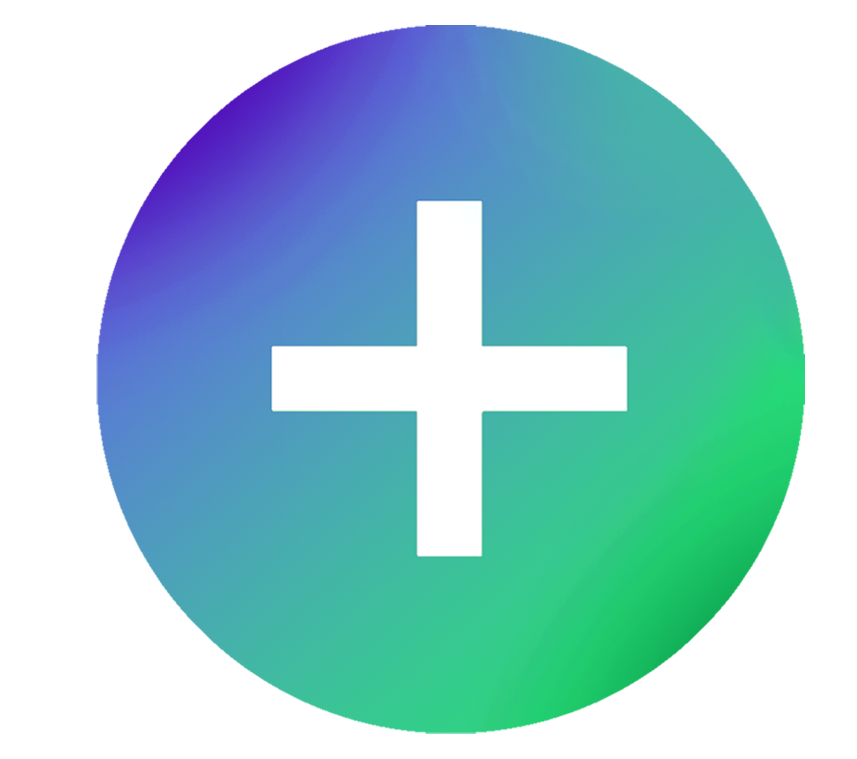
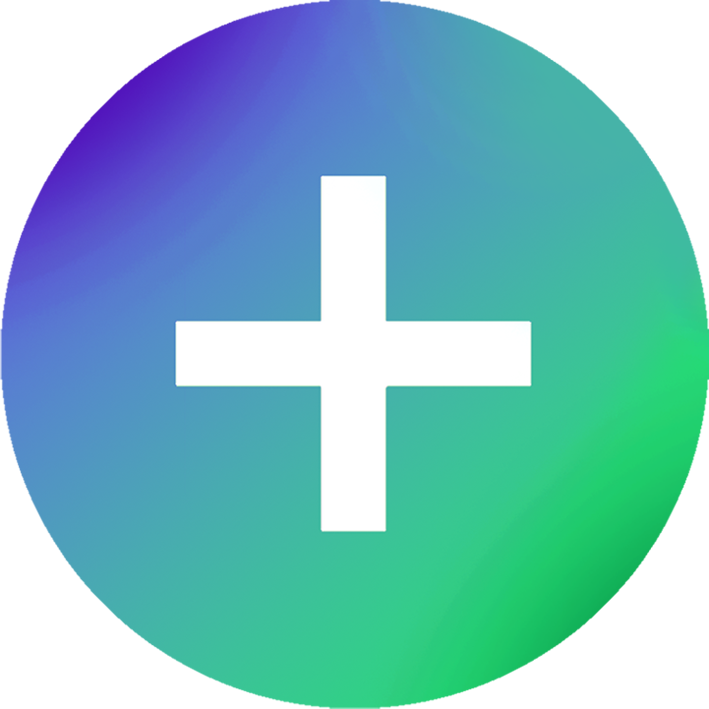
some major design edits

Changed region(s): [[0.0, 0.0, 1.0, 1.0], [0.2482, 0.2482, 0.7757, 0.7757]]

diff --git a/components/Categories.js b/components/Categories.js
@@ -8,28 +8,28 @@ import React from 'react'
 
 const Items = () => {
   return (
-    <ScrollView contentContainerStyle = {{paddingHorizontal: 26, 
-    paddingTop: 10, paddingBottom: 5, alignItems :'center'
+    <ScrollView contentContainerStyle = {{paddingHorizontal: 10, 
+    paddingTop: 10, paddingBottom: 15, alignItems :'center', backgroundColor:"black"
     }} horizontal showsHorizontalScrollIndicator={false}>
     
     
     <TouchableOpacity className = "relative mr-3"> 
-        <Image source={require("../assets/a1.png")}
+        <Image source={require("../assets/apurple.png")}
         className ="h-20 w-20 rounded-2xl "/>
     </TouchableOpacity>
     
     <TouchableOpacity className = "relative mr-3"> 
-        <Image source={require("../assets/a2.png")}
+        <Image source={require("../assets/1d.png")}
         className ="h-20 w-20 rounded-2xl "/>
     </TouchableOpacity> 
 
     <TouchableOpacity className = "relative mr-3"> 
-        <Image source={require("../assets/a3.png")}
+        <Image source={require("../assets/1d.png")}
         className ="h-20 w-20 rounded-2xl "/>
     </TouchableOpacity>    
 
     <TouchableOpacity className = "relative mr-3"> 
-        <Image source={require("../assets/a4.png")}
+        <Image source={require("../assets/1d.png")}
         className ="h-20 w-20 rounded-2xl "/>
     </TouchableOpacity>    
 
@@ -39,12 +39,12 @@ const Items = () => {
     </TouchableOpacity>  
 
     <TouchableOpacity className = "relative mr-3"> 
-        <Image source={require("../assets/a6.png")}
+        <Image source={require("../assets/1d.png")}
         className ="h-20 w-20 rounded-2xl "/>
     </TouchableOpacity>
     
     <TouchableOpacity className = "relative mr-3"> 
-        <Image source={require("../assets/a7.png")}
+        <Image source={require("../assets/1d.png")}
         className ="h-20 w-20 rounded-xl "/>
     </TouchableOpacity> 
 

diff --git a/components/Heder.js b/components/Heder.js
@@ -20,9 +20,9 @@ const Header = () => {
   const navigation = useNavigation();
   return (
     <View className = "flex-row pb-3 items-center mx-4 space-x-5">
-        <TouchableOpacity style={{alignItems:"center", backgroundColor:"#FFFFFF", borderColor:"#1d1d1d", borderWidth:1, height: heightPercentageToDP(5), paddingLeft:10, borderRadius:20, marginTop:10}} className="flex-row flex-1 space-x-2">
-              <Searchout size = {32} color = "black"/>
-              <Text style={{color:"black"}}> Search Items </Text>
+        <TouchableOpacity style={{alignItems:"center", backgroundColor:"#1d1d1d", borderColor:"#1d1d1d", borderWidth:1, height: heightPercentageToDP(5), paddingLeft:10, borderRadius:20, marginTop:10}} className="flex-row flex-1 space-x-2">
+              <Searchout size = {32} color = "white"/>
+              <Text style={{color:"white"}}> Search Items </Text>
         </TouchableOpacity>
         
               

diff --git a/components/feed/Feed.js b/components/feed/Feed.js
@@ -51,7 +51,7 @@ const navigation = useNavigation();
   }
 
   return (
-    <View style={{backgroundColor:"white"}}>
+    <View style={{backgroundColor:"black"}}>
       <View className = "bg-black opacity-0">
     {/* <Cartout size = {(0.06)*(Dimensions.get('window').height)} color = "#fffff" opacity={100}></Cartout> */}
     </View>
@@ -77,7 +77,7 @@ const navigation = useNavigation();
 }
 const styles_specific = StyleSheet.create({
     container: {
-      flex:1/2, height:(((wp(100)/2)-14)*16/9), backgroundColor:"black", marginTop: 10, marginLeft: 7, marginRight: 7, overflow: 'hidden', borderRadius:10,
+      flex:1/2, height:(((wp(100)/2)-20)*16/9), backgroundColor:"#1d1d1d", marginTop: 20, marginLeft: 10, marginRight: 10, overflow: 'hidden', borderRadius:10, 
         },
     },
   );

diff --git a/screens/Tabs.js b/screens/Tabs.js
@@ -54,7 +54,7 @@ const Tabs = () => {
     })}
     tabBarOptions={{
         activeTintColor: '#26da76',
-        inactiveTintColor: '#ffffff',
+        inactiveTintColor: 'white',
         // showLabel: false
       }} 
      initialRouteName="Home" backBehavior="Home">
@@ -99,9 +99,9 @@ const Tabs = () => {
                   }}>
                     
                   <Image
-                    source={require('../assets/plus.png')}
+                    source={require('../assets/blus.png')}
                     style={{
-                      width: wp('17.8') , height: wp('17.8'),
+                      width: wp('17.5') , height: wp('17.5'),
                       //tintColor: '#f1f6f9',
                       alignContent: 'center',
                     }}

diff --git a/screens/HomeScreen.js b/screens/HomeScreen.js
@@ -25,13 +25,13 @@ const HomeScreen = () => {
   
 
   return (
-    <View style = {{backgroundColor:"white"}} className="pt 6">
+    <View style = {{backgroundColor:"black"}} className="pt 6">
         <View>
 
           {/* Header */}
-          <View>
+          <View style = {{backgroundColor:"black"}}>
             <View>
-            <Cartout size = {55} color = "#FFFFFF"></Cartout>
+            <Cartout size = {55} color = "black"></Cartout>
             </View>
           <Heder>
           </Heder>

diff --git a/screens/feed/TvScreen.js b/screens/feed/TvScreen.js
@@ -87,8 +87,8 @@ const styles_specific = StyleSheet.create({
     flex: 1,
     ...Platform.select({
       ios: {
-        height: 1*(Dimensions.get('window').height),
-        backgroundColor: 'black'
+        height: 1*(Dimensions.get('window').height - hp(9.5)),
+        backgroundColor: 'black',
       },
       android: {
         height: 0.957*(Dimensions.get('window').height),

diff --git a/components/posthome/Postdouble.js b/components/posthome/Postdouble.js
@@ -72,7 +72,7 @@ export const Postdouble = forwardRef(({item}, parentRef) =>{
 
       <Video
       ref={ref} 
-      style={{flex:1, borderWidth:1, borderColor:"white", borderRadius:30}}
+      style={{flex:1, borderRadius:10}}
       resizeMode="cover"
       shouldPlay={true}
       isLooping = {false}
